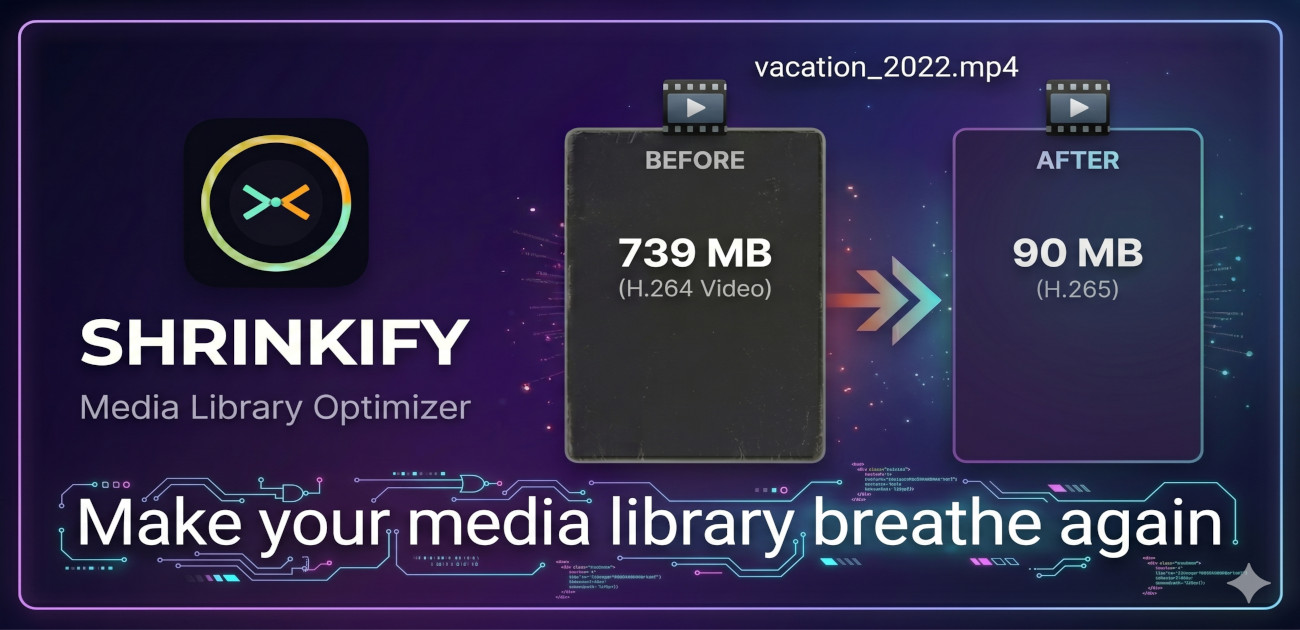
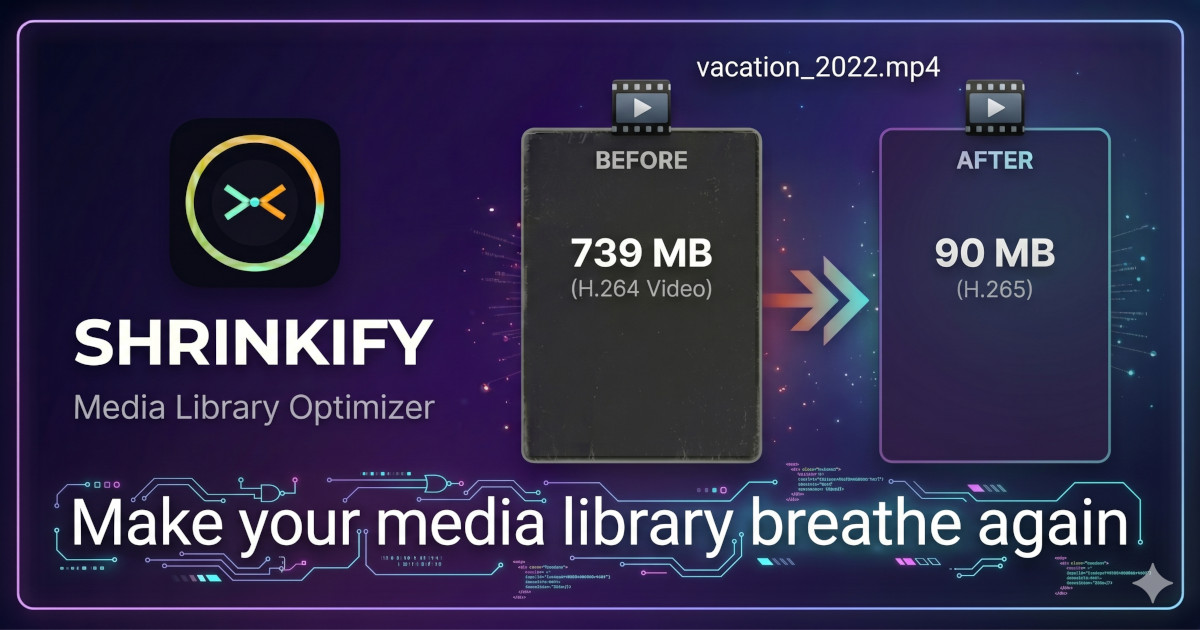
Fixed OG image size and URL.

diff --git a/docs/index.html b/docs/index.html
@@ -87,7 +87,7 @@
     />
     <meta
       name="twitter:image"
-      content="https://nazimcanislam.github.io/shrinkify/assets/og-image.png"
+      content="https://nazimcanislam.github.io/shrinkify/assets/og-image.jpg"
     />
     <link rel="canonical" href="https://nazimcanislam.github.io/shrinkify/" />
 